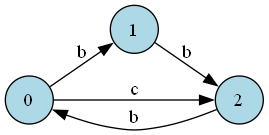
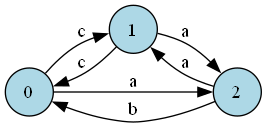
System now always finds correct space for 3 space system

diff --git a/IterativeDetermination.py b/IterativeDetermination.py
@@ -4,6 +4,8 @@ import StateSpaceFactory as ssf
 from enum import Enum
 import argparse
 import itertools
+import shutil
+from pathlib import Path
 
 
 class RefinementStrategy(Enum):
@@ -311,60 +313,68 @@ def make_greedy_space_deterministic(source_space, max_depth=3):
     dfs(source_space.states[0], zero, max_depth)
     return ss.StateSpace(len(states), states)
 
-def language_compare(source_space, state_space):
-    valid = True
-    source_path = source_space.random_traverse(100)
-    state_path = state_space.random_traverse(100)
-    # if not state_space.valid_language(source_path):
-    #     return False
-    if source_space.valid_language(state_path):
-        if state_space.valid_language(source_path):
-            return True
-    return False
+def generate_bounded_words(alphabet, max_depth):
+    """Generate all words up to the given depth from the provided observable alphabet."""
+    if not alphabet:
+        return []
+
+    words = ['']
+    for depth in range(1, max_depth + 1):
+        for chars in itertools.product(alphabet, repeat=depth):
+            words.append(''.join(chars))
+    return words
 
 
-def language_compare_2(source_space, state_space, max_depth=4, alphabet=None):
+def collect_observable_events(space, traversal_length=100):
+    """Run a traversal so the observable event history is populated, then extract the alphabet."""
+    if space is None or not getattr(space, 'states', None):
+        return set()
+
+    space.random_traverse(traversal_length)
+    history = getattr(space, 'eventHistory', '')
+    return {ch for ch in history if ch.isalpha()}
+
+
+def infer_observable_alphabet(*spaces, traversal_length=100):
+    """Infer the observable alphabet by first running a traversal on each space."""
+    observed = set()
+    for space in spaces:
+        observed.update(collect_observable_events(space, traversal_length=traversal_length))
+
+    if observed:
+        return sorted(observed)
+    return ['a', 'b', 'c']
+
+
+def language_compare(source_space, state_space, alphabet=None, max_depth=4):
     """
-    Example bounded deterministic comparison.
+    Deterministic bounded-language check.
 
-    Instead of using random traversals, this checks a fixed set of event strings
-    up to a given depth. It uses an observable alphabet of event labels rather
-    than inspecting hidden states directly.
+    Instead of using a single random traversal, this compares the observable
+    language of both spaces over all words up to a small bounded depth.
     """
-    if not source_space or not state_space:
+    if source_space is None or state_space is None:
         return False
 
     if alphabet is None:
-        observed_events = {
-            event for event in getattr(source_space, 'eventHistory', '')
-            if event.isalpha()
-        }
-        alphabet = sorted(observed_events) if observed_events else ['a', 'b', 'c']
-    else:
-        alphabet = sorted(alphabet)
+        alphabet = infer_observable_alphabet(source_space, state_space)
 
-    if not alphabet:
-        return True
-
-    def generate_strings(prefix, depth):
-        if depth == 0:
-            return [prefix]
-        strings = []
-        for event in alphabet:
-            strings.extend(generate_strings(prefix + event, depth - 1))
-        return strings
-
-    for depth in range(1, max_depth + 1):
-        for candidate in generate_strings('', depth):
-            if source_space.valid_language(candidate) != state_space.valid_language(candidate):
-                return False
+    for word in generate_bounded_words(alphabet, max_depth):
+        source_accepts = source_space.valid_language(word)
+        candidate_accepts = state_space.valid_language(word)
+        if source_accepts != candidate_accepts:
+            return False
     return True
 
 
-def validate_spaces(spaces, source_space):
+def validate_spaces(spaces, source_space, alphabet=None, max_depth=4):
+    folder = Path("Validated_Spaces")
+    if folder.exists():
+        shutil.rmtree(folder)
+    folder.mkdir(parents=True, exist_ok=True)
     valid_count = 0
     for i, state_space in enumerate(spaces):
-        if language_compare(source_space, state_space):
+        if language_compare(source_space, state_space, alphabet=alphabet, max_depth=max_depth):
             print(f"State space {i} is valid")
             state_space.visualize(filename=f'ValidatedSpace_{valid_count}', location='Validated_Spaces')
             valid_count += 1

diff --git a/StateSpace.py b/StateSpace.py
@@ -14,13 +14,17 @@ class StateSpace:
         self.currentState = self.states[0] if self.states else None
 
     def random_traverse(self, iterations):
+        self.currentState = self.states[0] if self.states else None
         self.eventHistory = ''
         self.stateHistory = ''
         for i in range(0, iterations):
+            if self.currentState is None:
+                break
             self.stateHistory += self.currentState.name
             event = random.choice(list(self.currentState.transfers))
             self.eventHistory += str(event)
             self.currentState = self.currentState.transfers[event]
+        self.currentState = self.states[0] if self.states else None
         return self.eventHistory
 
 
